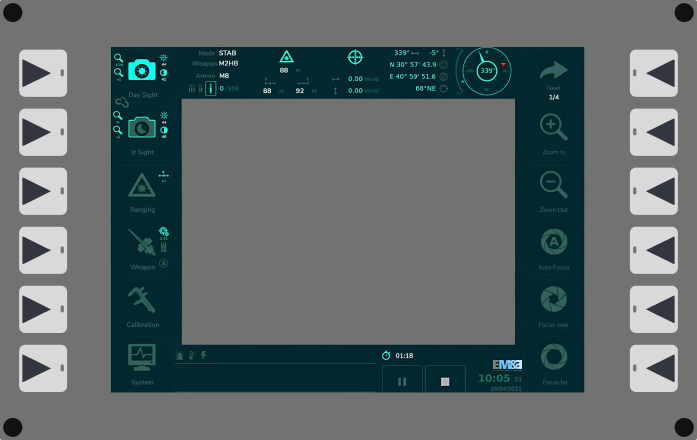
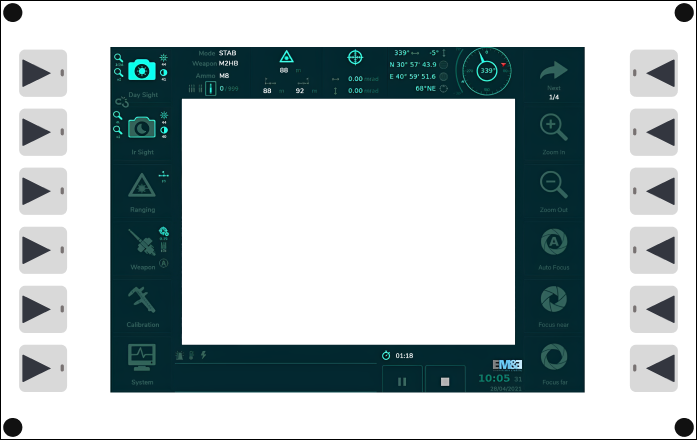
update2605
a

diff --git a/js/javascript.js b/js/javascript.js
@@ -372,6 +372,7 @@ $(".span-btn").on("click", function () {
 
 $("#plusZOOM span").on("click", function () {
     $("#plusZOOM span").css("filter", "brightness(150%)");
+
     setTimeout(function () {
         $("#plusZOOM span").css("filter", "brightness(100%)");
     }, 200);
@@ -467,7 +468,10 @@ function myFunctionF3() {
 
 }
 
-
+var xScreen = 0;
+var yScreen = 0;
+var xFocus = 300;
+var yFocus = -250;
 function myFunctionF2() {
     MODE = "F2";
     console.log(MODE);
@@ -480,25 +484,41 @@ function myFunctionF2() {
 
 document.addEventListener('keydown', function (event) {
     if (event.code == 'KeyA') {
+        xFocus--;
         $("#left-LJ").css("background", "radial-gradient(black, transparent)");
+        if(xFocus>185 && xFocus<415){
+            $(".focusEnemy").css("margin-left", xFocus +"px");
+            }
         setTimeout(function () {
             $("#left-LJ").css("background", "white");
         }, 200);
     }
     if (event.code == 'KeyS') {
+        yFocus++;
         $("#down-LJ").css("background", "radial-gradient(black, transparent)");
+        if(yFocus>-340 && yFocus<-148){
+            $(".focusEnemy").css("margin-top", yFocus +"px");
+        }
         setTimeout(function () {
             $("#down-LJ").css("background", "white");
         }, 200);
     }
     if (event.code == 'KeyD') {
+        xFocus++;
         $("#right-LJ").css("background", "radial-gradient(black, transparent)");
+        if(xFocus>185 && xFocus<415){
+            $(".focusEnemy").css("margin-left", xFocus +"px");
+        }
         setTimeout(function () {
             $("#right-LJ").css("background", "white");
         }, 200);
     }
     if (event.code == 'KeyW') {
+        yFocus--;
         $("#up-LJ").css("background", "radial-gradient(black, transparent)");
+        if(yFocus>-340 && yFocus<-148){
+            $(".focusEnemy").css("margin-top", yFocus +"px");
+        }
         setTimeout(function () {
             $("#up-LJ").css("background", "white");
         }, 200);
@@ -542,28 +562,45 @@ document.addEventListener('keydown', function (event) {
 
 $(document).keydown(function (e) {
     if (e.which == 37) {
+        xScreen--;
         $("#left-RJ").css("background", "radial-gradient(black, transparent)");
+        if(xScreen>0 && xScreen<100){
+        $(".screenUser").css("background-position-x", xScreen +"%");
+        }
         setTimeout(function () {
             $("#left-RJ").css("background", "white");
+            
         }, 200);
         return false;
     }
     if (e.which == 38) {
+        yScreen--;
         $("#up-RJ").css("background", "radial-gradient(black, transparent)");
+        if(yScreen>=0 && yScreen<=100){
+            $(".screenUser").css("background-position-y", yScreen +"%");
+            }
         setTimeout(function () {
             $("#up-RJ").css("background", "white");
         }, 200);
         return false;
     }
     if (e.which == 39) {
+        xScreen++;
         $("#right-RJ").css("background", "radial-gradient(black, transparent)");
+        if(xScreen>=0 && xScreen<=100){
+            $(".screenUser").css("background-position-x", xScreen +"%");
+            }
         setTimeout(function () {
             $("#right-RJ").css("background", "white");
         }, 200);
         return false;
     }
     if (e.which == 40) {
+        yScreen++;
         $("#down-RJ").css("background", "radial-gradient(black, transparent)");
+        if(yScreen>=0 && yScreen<=100){
+            $(".screenUser").css("background-position-y", yScreen +"%");
+            }
         setTimeout(function () {
             $("#down-RJ").css("background", "white");
         }, 200);

diff --git a/css/style.css b/css/style.css
@@ -97,18 +97,39 @@ ul li {
     padding-top: 10px;
     padding-left: 10px;
     height: 420px;
-    width: 700px;
+    width: 703px;
     overflow: scroll;
     overflow-x: hidden;
     background-color: lightgray;
 }
 
 .screenUser {
-    background-image: url("/img/screen-bg.png");
-    background-repeat: no-repeat; 
-    margin: 0 100px;
-    width: 1000px;
+
+}
+.imgScreen{
+    width: 700px;
     height: 440px;
+}
+
+.imgScreen img{
+    width: 100%;
+}
+
+.imgEnemy img{
+    position: absolute;
+    z-index: 99;
+    width: 334px;
+    height: 247px;
+    margin: -340px 183px;
+}
+
+.focusEnemy{
+    width: 100px;
+    height:50px;
+    border: 1px solid red;
+    border-radius: 10px;
+    margin-top:-250px; 
+    margin-left: 300px;
 }
 
 .simulation {

diff --git a/index.html b/index.html
@@ -28,7 +28,14 @@
         margin-top: 173px;
         cursor: pointer;">F3: Mode thực hành </label><br>
       </div>
-      <div class="screenUser"></div>
+      <div class="screenUser" style="background-image:url('img/image-enemy.png');background-repeat: no-repeat ;margin: 0 100px;height: 440px;position: relative;">
+        <div class="imgScreen">
+          <img src="img/screen-bg2.png">
+          <div class="focusEnemy"></div>
+        </div>
+
+        
+      </div>
       <div id="space" style="display: block; width:708px;"></div>
       <div class="manualBtn" id="manualBtn">
         <!-- <h4>- B1: Trên hệ thống súng bên ngoài:</h4>
